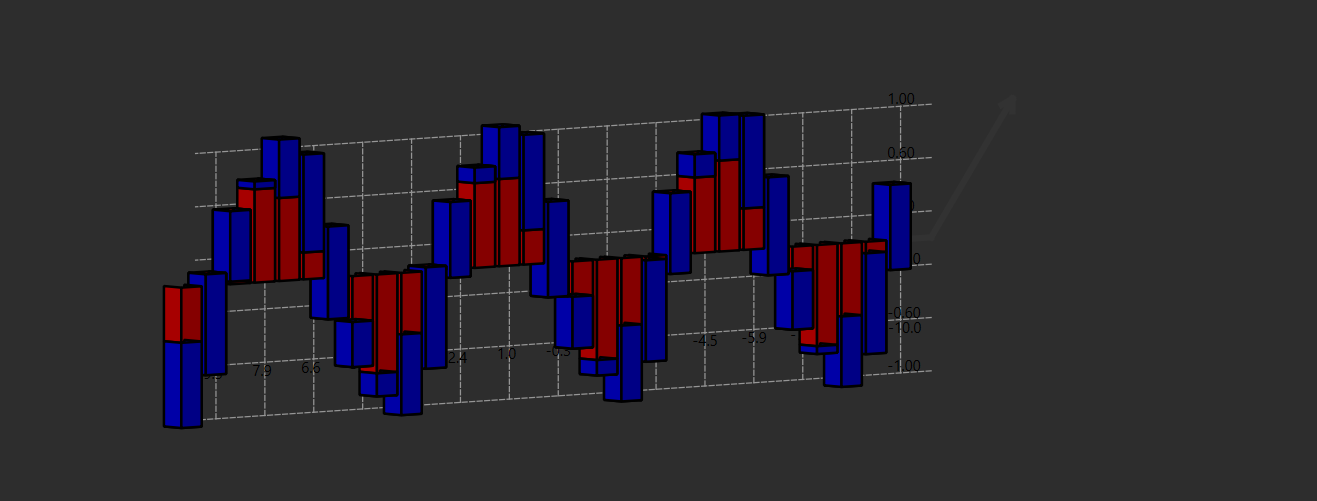
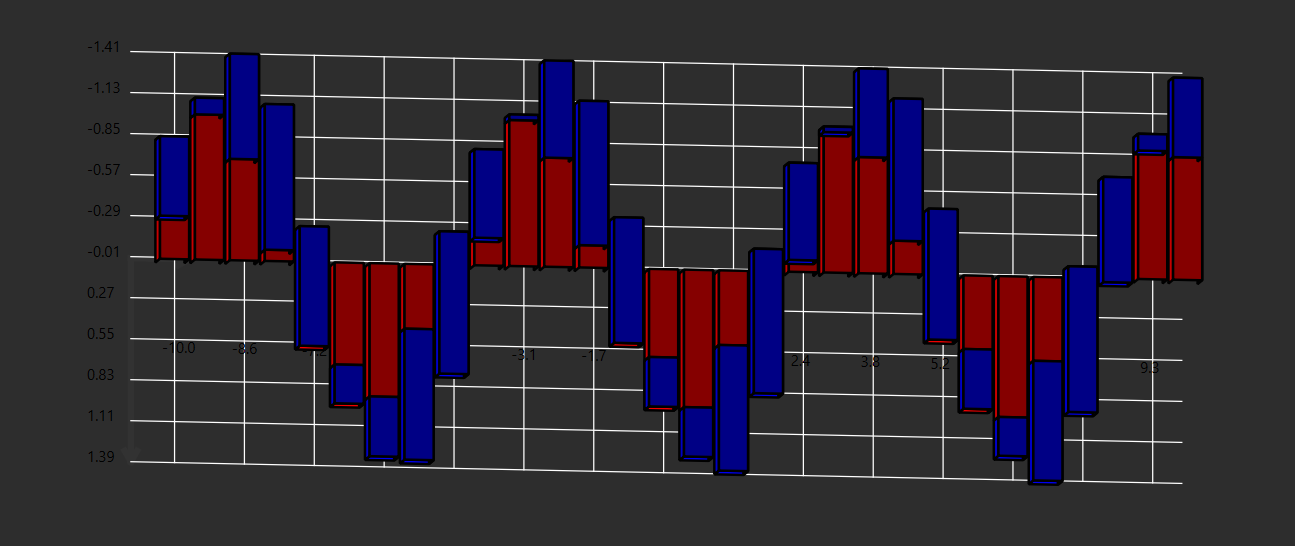
Поправил отрисовку, теперь можно двигать камеру влево-вправо.

diff --git a/main.py b/main.py
@@ -22,10 +22,10 @@ class Bar:
         self.segments = segments
 
 
-# Виджет для отрисовки одного графика с возможностью интерактивного вращения
+# Виджет для отрисовки одного графика с возможностью интерактивного вращения и перемещения
 class GraphWidget(QWidget):
-    def __init__(self, bars, x_min=None, x_max=None, z_min=None, z_max=None, x_values=None, draw_axes_after=False,
-                 parent=None):
+    def __init__(self, bars, x_min=None, x_max=None, z_min=None, z_max=None, x_values=None, legend_items=None,
+                 draw_axes_after=False, parent=None):
         super().__init__(parent)
         self.bars = bars
         self.x_values = x_values
@@ -38,6 +38,9 @@ class GraphWidget(QWidget):
         self.x_max = x_max
         self.z_min = z_min
         self.z_max = z_max
+        self.legend_items = legend_items if legend_items is not None else []  # Элементы легенды
+        self.x_offset = 0  # Смещение по X для перемещения камеры
+        self.y_offset = 0  # Смещение по Y для перемещения камеры
 
     def paintEvent(self, event):
         painter = QPainter(self)
@@ -45,23 +48,40 @@ class GraphWidget(QWidget):
         # Центрирование рисунка в окне
         center_offset = QPointF(self.width() / 2, self.height() / 2)
 
-        # Если оси нужно рисовать на заднем плане, то сначала рисуем оси
+        # Рисуем оси на заднем плане, если нужно
         if not self.draw_axes_after:
             self.draw_axes(painter, center_offset, self.x_min, self.x_max, self.z_min, self.z_max, self.x_values)
 
-
-        # Отрисовка баров (накопление реализовано путем последовательного сложения сегментов)
+        # Отрисовка баров
         for bar in self.bars:
-            base_z = 0  # начальная высота для накопления сегментов
+            base_z = 0
             for (h, color) in bar.segments:
                 self.draw_cuboid(painter, bar.x, bar.y, base_z, bar.width, bar.depth, h, center_offset, color)
-                base_z += h  # следующий сегмент располагается выше предыдущего
+                base_z += h
 
-        # Если оси нужно рисовать поверх, то делаем это после баров
+        # Рисуем оси поверх баров, если нужно
         if self.draw_axes_after:
             self.draw_axes(painter, center_offset, self.x_min, self.x_max, self.z_min, self.z_max, self.x_values)
 
+        # Рисуем легенду
+        if self.legend_items:
+            self.draw_legend(painter)
+
         painter.end()
+
+    def draw_legend(self, painter):
+        """Рисует легенду в правом верхнем углу."""
+        legend_x = self.width() - 150  # Отступ от правого края
+        legend_y = 10  # Отступ сверху
+        box_size = 20  # Размер цветного квадрата
+        spacing = 5  # Расстояние между элементами
+        for i, (name, color) in enumerate(self.legend_items):
+            # Цветной квадрат
+            painter.setBrush(QBrush(color))
+            painter.drawRect(legend_x, legend_y + i * (box_size + spacing), box_size, box_size)
+            # Текст
+            painter.setPen(QPen(Qt.black))
+            painter.drawText(legend_x + box_size + 5, legend_y + i * (box_size + spacing) + box_size / 2 + 5, name)
 
     def wheelEvent(self, event):
         """Обрабатывает прокрутку колесика мыши для масштабирования графика."""
@@ -74,7 +94,7 @@ class GraphWidget(QWidget):
         self.update()
 
     def project_point(self, x, y, z, offset):
-        """Проецирует 3D точку (x, y, z) на 2D экран с учетом вращения и масштабирования."""
+        """Проецирует 3D точку на 2D экран с учётом вращения, масштабирования и смещения."""
         rad_az = math.radians(self.azimuth)
         X1 = x * math.cos(rad_az) - y * math.sin(rad_az)
         Y1 = x * math.sin(rad_az) + y * math.cos(rad_az)
@@ -82,13 +102,12 @@ class GraphWidget(QWidget):
         rad_el = math.radians(self.elevation)
         Y2 = Y1 * math.cos(rad_el) - Z1 * math.sin(rad_el)
         Z2 = Y1 * math.sin(rad_el) + Z1 * math.cos(rad_el)
-
-        # Учитываем масштабирование
-        return QPointF((X1 * self.scale_factor) + offset.x(),
-                       (Y2 * self.scale_factor) + offset.y())
+        # Добавляем смещение камеры
+        screen_x = X1 * self.scale_factor + offset.x() + self.x_offset
+        screen_y = Y2 * self.scale_factor + offset.y() + self.y_offset
+        return QPointF(screen_x, screen_y)
 
     def draw_cuboid(self, painter, x, y, z, w, d, h, offset, color):
-        # Вычисляем 8 вершин параллелепипеда
         vertices = {}
         vertices['A'] = self.project_point(x, y, z, offset)
         vertices['B'] = self.project_point(x + w, y, z, offset)
@@ -99,23 +118,18 @@ class GraphWidget(QWidget):
         vertices['G'] = self.project_point(x + w, y + d, z + h, offset)
         vertices['H'] = self.project_point(x, y + d, z + h, offset)
 
-        # Рисуем три видимые грани: верхнюю, правую и левую
-        # Верхняя грань
         top_face = [vertices[k] for k in ['E', 'F', 'G', 'H']]
         painter.setBrush(QBrush(color.lighter(120)))
         painter.drawPolygon(QPolygonF(top_face))
 
-        # Правая грань
         right_face = [vertices[k] for k in ['B', 'C', 'G', 'F']]
         painter.setBrush(QBrush(color.darker(120)))
         painter.drawPolygon(QPolygonF(right_face))
 
-        # Левая грань
         left_face = [vertices[k] for k in ['A', 'D', 'H', 'E']]
         painter.setBrush(QBrush(color))
         painter.drawPolygon(QPolygonF(left_face))
 
-        # Дополнительная фронтальная грань (вдоль высоты)
         front_face = [vertices[k] for k in ['A', 'B', 'F', 'E']]
         painter.setBrush(QBrush(color.darker(150)))
         painter.drawPolygon(QPolygonF(front_face))
@@ -137,29 +151,26 @@ class GraphWidget(QWidget):
         self.draw_arrow(painter, origin, x_end)
 
         # Ось Z
-        z_end = self.project_point(z_min, 0, z_max, offset)
+        z_end = self.project_point(x_min, 0, z_max, offset)
         painter.drawLine(origin, z_end)
         self.draw_arrow(painter, origin, z_end)
 
-        # Добавляем светлую линию поверх осей (имитация объёмности)
-        shadow_pen = QPen(QColor(100, 200, 300), 2, Qt.DashLine)
-        painter.setPen(shadow_pen)
-        painter.drawLine(origin + QPointF(1, 1), x_end + QPointF(1, 1))
-        painter.drawLine(origin + QPointF(1, 1), z_end + QPointF(1, 1))
 
-        # Вспомогательная пунктирная сетка
-        grid_pen = QPen(QColor(150, 150, 150), 1, Qt.DashLine)
+
+        # Вспомогательная сетка с контрастным цветом и сплошными линиями
+        grid_pen = QPen(QColor(255, 255, 255), 1, Qt.SolidLine)  # Белый цвет, сплошная линия
         painter.setPen(grid_pen)
 
         # Вертикальные линии сетки (по X)
         for i in range(0, len(x_values), x_tick_step):
             x_pos = self.bars[i].x + self.bars[i].width / 2
-            grid_start = self.project_point(x_pos , 0, z_min, offset)
+            grid_start = self.project_point(x_pos, 0, z_min, offset)
             grid_end = self.project_point(x_pos, 0, z_max, offset)
             painter.drawLine(grid_start, grid_end)
 
-        # Горизонтальные линии сетки (по Z)
-        tick_interval_z = (z_max - z_min) / 5
+        # Горизонтальные линии сетки (по Z) с большим количеством линий
+        num_z_ticks = 10  # Увеличиваем количество линий
+        tick_interval_z = (z_max - z_min) / num_z_ticks
         current_z = z_min
         while current_z <= z_max:
             grid_start = self.project_point(x_min, 0, current_z, offset)
@@ -174,7 +185,7 @@ class GraphWidget(QWidget):
             tick_pt = self.project_point(x_pos, 0, 0, offset)
             painter.drawText(tick_pt + QPointF(-10, 75), f"{x_values[i]:.1f}")
 
-        # Подписи оси Z (Или по другому, ось Y - Область определния функций)
+        # Подписи оси Z
         current_z = z_min
         while current_z <= z_max:
             tick_pt = self.project_point(x_min, 0, current_z, offset)
@@ -182,9 +193,6 @@ class GraphWidget(QWidget):
             current_z += tick_interval_z
 
     def draw_arrow(self, painter, start, end):
-        """
-        Рисует стрелку на конце линии.
-        """
         line_vec = QPointF(end.x() - start.x(), end.y() - start.y())
         length = math.hypot(line_vec.x(), line_vec.y())
         if length == 0:
@@ -210,32 +218,34 @@ class GraphWidget(QWidget):
         if self.last_mouse_pos is not None:
             dx = event.x() - self.last_mouse_pos.x()
             dy = event.y() - self.last_mouse_pos.y()
-            # Изменяем азимут и угол наклона пропорционально смещению мыши
-            self.azimuth += dx * 0.5
-            self.elevation += dy * 0.5
+            if event.modifiers() & Qt.ShiftModifier:
+                # Перемещаем камеру при зажатом Shift
+                self.x_offset += dx
+                self.y_offset += dy
+            else:
+                # Вращаем график без Shift
+                self.azimuth += dx * 0.5
+                self.elevation += dy * 0.5
             self.last_mouse_pos = event.pos()
             self.update()
 
 
-# Функция для генерации баров с накоплением (две сегмента в каждом баре)
+# Функция для генерации баров с накоплением
 def load_data(filename):
     with open(filename, 'r') as file:
         return json.load(file)
 
-"""""
- bar_spacing - расстояние между столбиками. 
-"""
+
 def generate_bars_from_data(data, bar_width=10, bar_depth=10, scale=50, bar_spacing=5):
     bars = []
     x_values = data["x"]
     functions = data["functions"]
 
     colors = [QColor(200, 0, 0), QColor(0, 0, 200), QColor(0, 200, 0)]
-    num_functions = len(functions)
     function_names = list(functions.keys())
 
     for i, x in enumerate(x_values):
-        y = 0  # все столбцы на одной линии
+        y = 0
         segments = []
         base_z = 0
 
@@ -244,9 +254,7 @@ def generate_bars_from_data(data, bar_width=10, bar_depth=10, scale=50, bar_spac
             segments.append((value, colors[j % len(colors)]))
             base_z += value
 
-        # Смещаем x-координату с учетом шага между столбцами
         x_position = i * (bar_width + bar_spacing)
-
         bars.append(Bar(x_position, y, bar_width, bar_depth, segments))
 
     return bars
@@ -262,16 +270,19 @@ class MainWindow(QMainWindow):
         self.initUI(data)
 
     def initUI(self, data):
-        x_min, x_max = get_x_range(data["x"])  # Берём реальные границы X
+        x_min, x_max = get_x_range(data["x"])
         z_min, z_max = get_function_range(data["functions"])
-
-        # Масштабируем Z
         z_min *= 50
         z_max *= 50
 
-        bars_stacked = generate_bars_from_data(data, bar_spacing=2)
-        graph_stacked = GraphWidget(bars_stacked, x_min, x_max, z_min, z_max, data["x"], draw_axes_after=False)
+        # Создаём элементы легенды
+        colors = [QColor(200, 0, 0), QColor(0, 0, 200), QColor(0, 200, 0)]
+        function_names = list(data["functions"].keys())
+        legend_items = list(zip(function_names, colors[:len(function_names)]))
 
+        bars_stacked = generate_bars_from_data(data, bar_spacing=2)
+        graph_stacked = GraphWidget(bars_stacked, x_min, x_max, z_min, z_max, data["x"], legend_items,
+                                    draw_axes_after=False)
 
         self.tab_widget.addTab(graph_stacked, "Stacked Demo")
 

diff --git a/README.md b/README.md
@@ -11,6 +11,6 @@ Graph Visualizer With PySide6
 # Данные загружаются из data.json, где хранятся значения x и функции.
 
 # Пример испрользования программы, x лежит в пределах от -10 до 10. Функции cos(x), sin(x)
-![img.png](img.png)
 ![img_1.png](img_1.png)
+![img.png](img.png)
 ![img_2.png](img_2.png)
